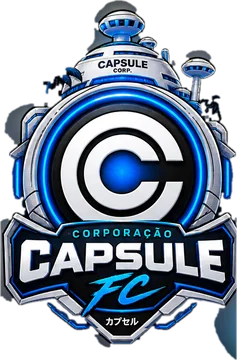
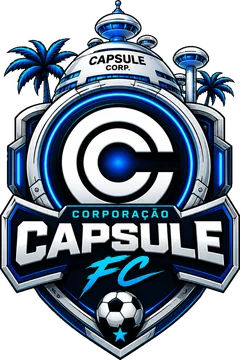
Capsule FC: escudo recortado de novo (sem halo) e a camisa do dono no post
O Diego pegou dois defeitos na entrega do batismo: 'O escudo saiu C fundo
ainda e o manto vc N trouxe'. Os dois vinham do mesmo lugar — a primeira arte
era uma prancha sobre fundo azul escuro, e contorno preto sobre fundo escuro
nao da pra separar direito.

- Escudo refeito a partir da peca sozinha sobre verde liso #00FF00: recorte
  por COR (nao por vizinhanca da borda), erosao de 1px e descontaminacao do
  verde da franja. Sumiu o halo azul e as palmeiras voltaram a aparecer.
  240x360, 29,3 KB — proporcao do arquivo corrigida no escudos.tsx (era 237).
- Camisa do dono recortada do mesmo jeito e guardada em scripts/kits/ (arquivo
  de post, fora do bundle do jogo, nao conta no teto de peso do batismo).
  O post agora sai com a camisa dele em vez do manto generico.
- Conferido sobre creme, verde escuro e preto do manto, no tamanho grande e no
  tamanho real de tela (78px). Peso total do batismo: 71,0 KB de 75.

Nao vira novidade na home: e conserto, nao feature.

Claude-Session: https://claude.ai/code/session_018Ap1zPCMVL9XeZJN3u93ZA

diff --git a/src/escalacao/escudos.tsx b/src/escalacao/escudos.tsx
@@ -558,10 +558,10 @@ const takahdaoEscudoRender = (size: number) => (
 // 🧦 Jurubeba FC — escudo amarelo com "MEIA NA CANELA" em verde-petróleo, coroa,
 // a meia e a bola (2025). 285x360 no arquivo (largura pela proporção REAL). A
 // arte veio com alfa: só apagou a poeira (alfa ≤ 40) e recortou no bbox.
-// 🐉 Corporação Capsule FC — 237x360 no arquivo, então a largura sai da PROPORÇÃO
+// 🐉 Corporação Capsule FC — 240x360 no arquivo, então a largura sai da PROPORÇÃO
 // REAL (nunca width={size} chutado, senão o escudo achata).
 const capsuleEscudoRender = (size: number) => (
-  <img src={capsuleEscudoImg} height={size} width={Math.round(size * 237 / 360)} alt="Corporação Capsule FC" style={{ flex: 'none', display: 'block', objectFit: 'contain' }} />
+  <img src={capsuleEscudoImg} height={size} width={Math.round(size * 240 / 360)} alt="Corporação Capsule FC" style={{ flex: 'none', display: 'block', objectFit: 'contain' }} />
 )
 const jurubebaEscudoRender = (size: number) => (
   <img src={jurubebaEscudoImg} height={size} width={Math.round(size * 285 / 360)} alt="Jurubeba FC" style={{ flex: 'none', display: 'block', objectFit: 'contain' }} />

diff --git a/docs/pendencias.md b/docs/pendencias.md
@@ -7,9 +7,13 @@ Dono: `contatovegetta14@gmail.com` · Série B, **no lugar do bot Real Tabuleiro
 ### ✅ Feito
 - `data.ts`: assento da Série B (técnico 'Cápsula'), **mesma força do bot que
   saiu** (58/59) + `OLD_NAME` pro save antigo seguir.
-- **Escudo** `img/capsule-escudo.webp` 237×360 · **29,3 KB**.
+- **Escudo** `img/capsule-escudo.webp` 240×360 · **29,3 KB** — **REFEITO 04/09**
+  (a 1ª versão, cortada da prancha escura, tinha halo azul e as palmeiras
+  viraram borrão preto; o dono pegou: *"O escudo saiu C fundo ainda"*).
 - **Mascote (O DragonBola)** `img/capsule-mascote.webp` 260×440 · **41,7 KB**.
   Total do batismo: **71,0 KB** de 75.
+- **Camisa do dono no post** `scripts/kits/capsule-camisa.webp` 685×900 —
+  arquivo de POST, fora do jogo, **não conta no teto de peso**.
 - `manto.ts`: `['#050A13', '#0C5CB3']` — **MEDIDOS na arte** (mediana dos pixels
   pretos e dos azuis do escudo), não chutados.
 - `apoio.tsx` ouro + `FUNDADOR_N` 55 · `batismos.ts` · `checa-batismos` ·
@@ -17,8 +21,9 @@ Dono: `contatovegetta14@gmail.com` · Série B, **no lugar do bot Real Tabuleiro
   CAIXA ALTA, 'Capsule FC'/'Capsule' e o nome velho.
 - Post: `node scripts/mockup-batismo.mjs --clube "Corporação Capsule FC"
   --serie B --antigo "Real Tabuleiro" --escudo … --mascote … --mascote-nome
-  "O DragonBola" --mascote-emoji 🐉 --c1 "#050A13" --c1-nome preto
-  --c2 "#0C5CB3" --c2-nome azul --dono "Vegetta" --fundador 55`
+  "O DragonBola" --mascote-emoji 🐉 --camisa scripts/kits/capsule-camisa.webp
+  --c1 "#050A13" --c1-nome preto --c2 "#0C5CB3" --c2-nome azul
+  --dono "Vegetta" --fundador 55`
 
 ### 🧪 A LIÇÃO DO RECORTE (vale pra todo batismo daqui pra frente)
 A 1ª arte veio numa **prancha** (escudo + dragão + camisa) sobre fundo azul
@@ -44,9 +49,11 @@ transparente).** Fonte guardada em `scripts/kits/capsule-mascote-fonte.webp`.
    `valido_ate='2099-12-31'`, manto `#050A13`/`#0C5CB3`,
    `mascote_key='capsule_dragao'`, `origem='batismo'`) · `esc_fundadores` n=55
    (conferir com `select max(n)`) · `esc_nomes_batismo` (nome puro + `nome_norm`).
-2. **A camisa do post**: o dono mandou uma na 1ª prancha, mas ela é escura
-   sobre fundo escuro e não recortou. O post saiu com o manto em listras (as
-   cores certas). Se ele quiser a camisa dele no post, pedir sobre `#00FF00`.
+2. ~~A camisa do post~~ — **RESOLVIDO 04/09**: o dono mandou a camisa E o escudo
+   de novo, sozinhos sobre `#00FF00`, e os dois cortaram limpos de primeira. O
+   post agora sai com a camisa DELE (`--camisa`).
+   👉 **Confirmou a regra**: arte de batismo nunca em prancha, sempre peça
+   sozinha sobre verde liso — corte de 1ª contra 3 tentativas frustradas.
 
 ## 🏛 SALA DA PRESIDÊNCIA (03/09) — MOCKUP FEITO, ESPERANDO O OK · NADA CODADO
 Pedido dele: *"vamos fazer a sala da presidência.. Como será? C técnico, sala de
